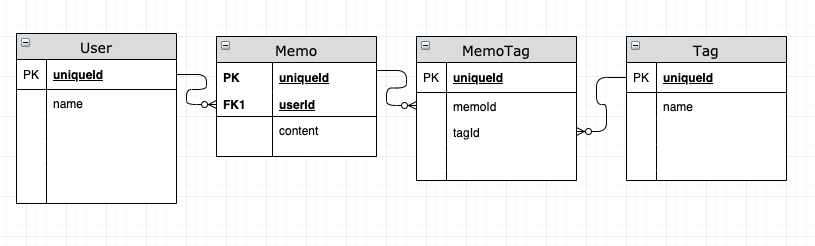
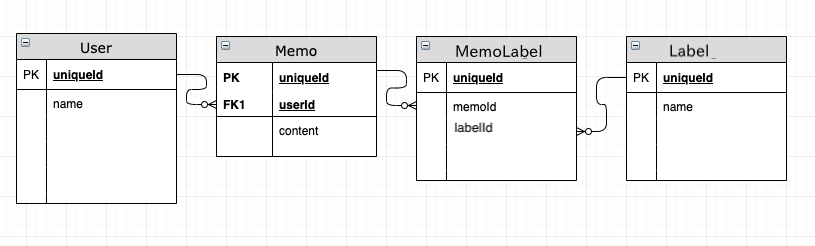
rename tag table to `label`

Changed region(s): [[0.5521, 0.1707, 0.6748, 0.2561], [0.7975, 0.1707, 0.8896, 0.2561], [0.5521, 0.4837, 0.6135, 0.5691]]

diff --git a/README.md b/README.md
@@ -172,26 +172,26 @@ CREATE TABLE public.Memo(
   PRIMARY KEY (id)
 );
 
-CREATE TABLE public.Tag(
+CREATE TABLE public.Label(
   id SERIAL NOT NULL ,
   name INTEGER NOT NULL,
   PRIMARY KEY (id)
 );
 
 
-CREATE TABLE public.TagMemo(
+CREATE TABLE public.LabelMemo(
   id SERIAL NOT NULL,
   memo_id INTEGER NOT NULL REFERENCES public.Memo(id),
-  tag_id INTEGER NOT NULL REFERENCES public.Tag(id),
+  tag_id INTEGER NOT NULL REFERENCES public.Label(id),
   PRIMARY KEY (id)
 );
 
 
 -- !Downs
 DROP TABLE public.User CASCADE;
-DROP TABLE public.Tag CASCADE;
+DROP TABLE public.Label CASCADE;
 DROP TABLE public.Memo CASCADE;
-DROP TABLE public.TagMemo CASCADE;
+DROP TABLE public.LabelMemo CASCADE;
 
 
 ```
